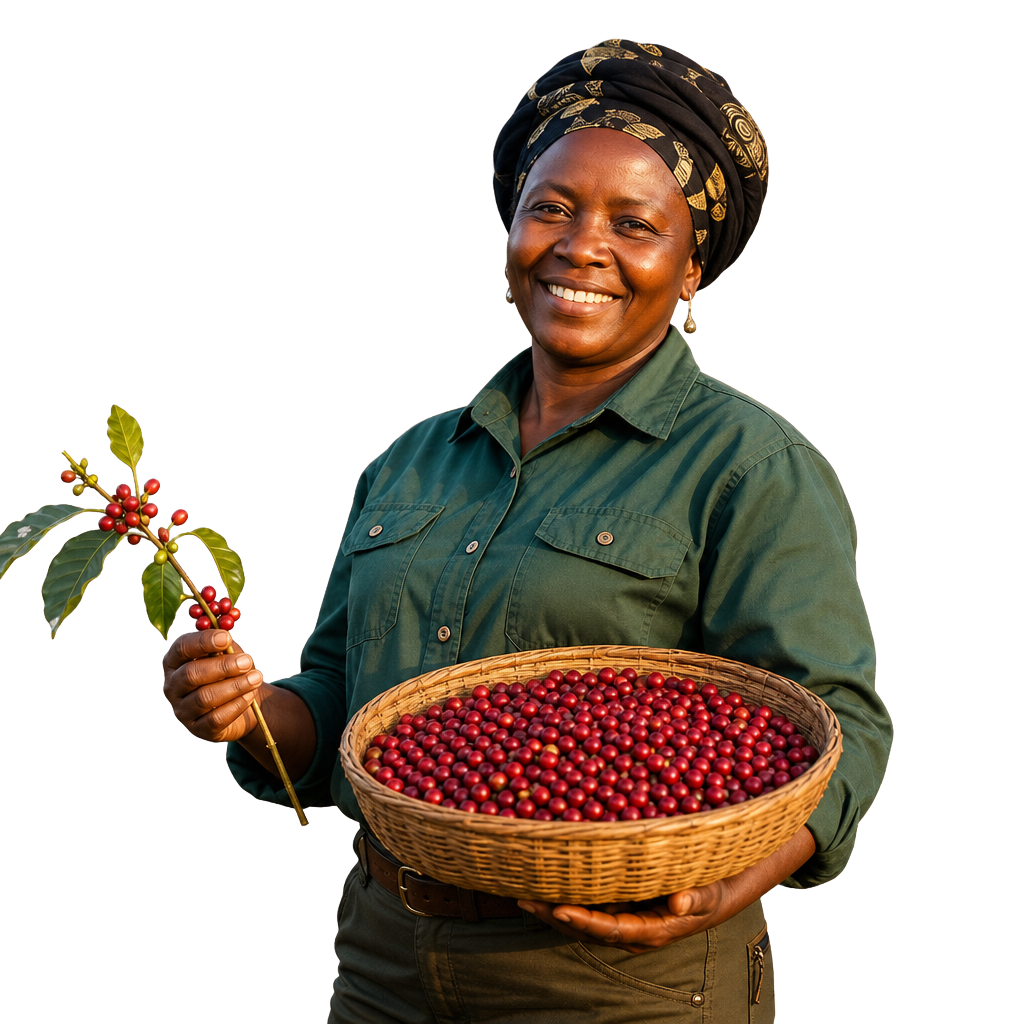
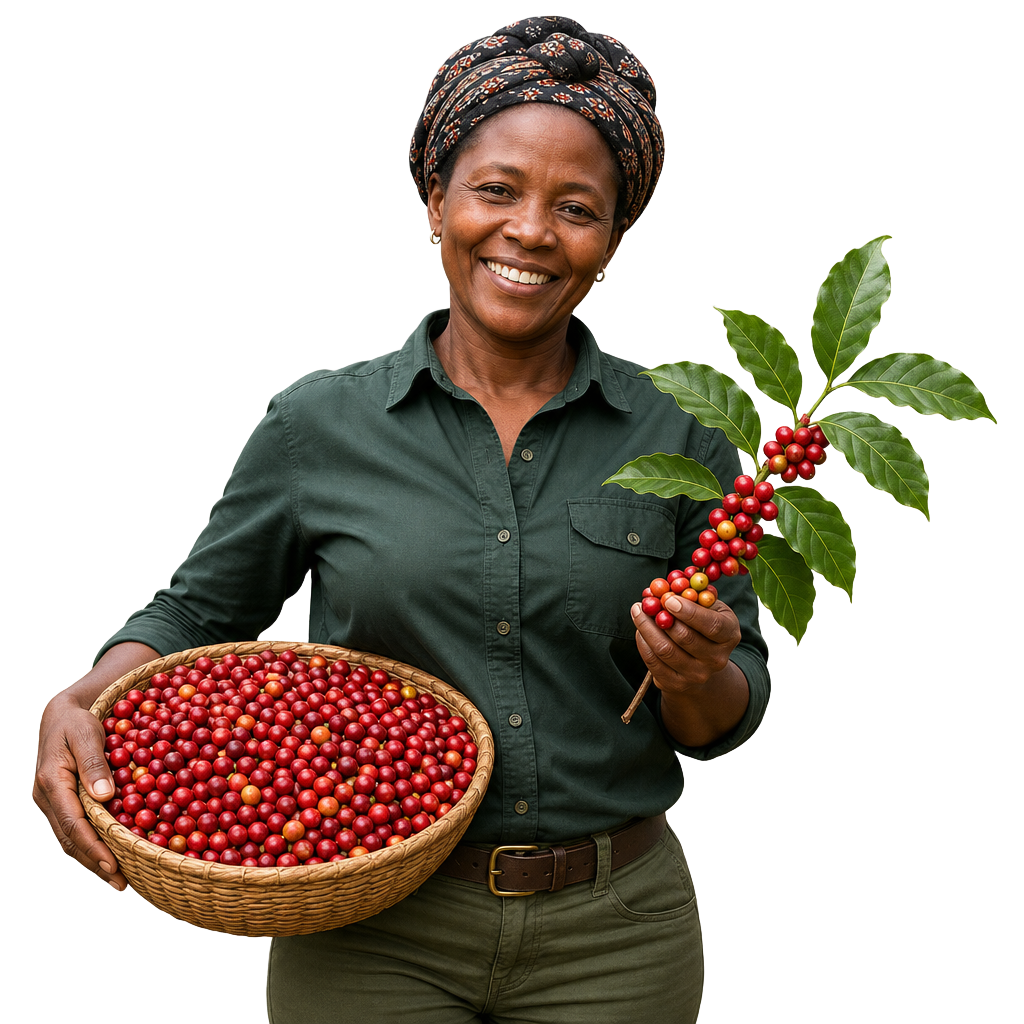
Update TokenHarvest hero imagery and styles
Replit-Commit-Author: Agent

diff --git a/artifacts/tokenharvest-website/src/components/home/TokenHarvestHero.css b/artifacts/tokenharvest-website/src/components/home/TokenHarvestHero.css
@@ -298,8 +298,9 @@
 }
 
 .th-commodity-item[data-name="green-beans"] { top: 8%; left: 0; animation-delay: -2s; }
-.th-commodity-item[data-name="red-cherries"] { top: 24%; right: -1%; width: clamp(78px, 12vw, 132px); animation-delay: -4.5s; }
-.th-commodity-item[data-name="tea-farmer"] { top: 0; right: 13%; width: clamp(110px, 15vw, 170px); animation-delay: -4s; }
+.th-commodity-item[data-name="red-cherries"] { top: 26%; right: 1%; width: clamp(78px, 12vw, 132px); animation-delay: -4.5s; }
+.th-commodity-item[data-name="tea-leaves"] { top: 4%; right: -3%; width: clamp(80px, 12vw, 125px); animation-delay: -3s; }
+.th-commodity-item[data-name="tea-farmer"] { top: 0; right: 18%; width: clamp(105px, 14vw, 150px); animation-delay: -4s; }
 .th-commodity-item[data-name="grain"] { bottom: 5%; left: -1%; width: clamp(95px, 15vw, 160px); animation-delay: -1s; }
 .th-commodity-item[data-name="nuts"] { right: 6%; bottom: 3%; animation-delay: -3s; }
 .th-commodity-item[data-name="cacao"] { top: 42%; right: -2%; width: clamp(70px, 11vw, 118px); animation-delay: -5s; }
@@ -454,7 +455,8 @@
   .th-commodity-tag.origin { left: 0; }
   .th-commodity-tag.finance { right: 0; }
   .th-commodity-item[data-name="red-cherries"] { top: 27%; right: -4%; }
-  .th-commodity-item[data-name="tea-farmer"] { right: 10%; }
+  .th-commodity-item[data-name="tea-leaves"] { right: -4%; }
+  .th-commodity-item[data-name="tea-farmer"] { right: 22%; }
   .th-commodity-item[data-name="cacao"] { right: -3%; }
   .th-commodity-item[data-name="grain"] { left: -2%; }
   .th-commodity-corner-card,

diff --git a/artifacts/tokenharvest-website/src/components/home/TokenHarvestHero.tsx b/artifacts/tokenharvest-website/src/components/home/TokenHarvestHero.tsx
@@ -22,6 +22,7 @@ const withoutDashes = (value: string) => value.replace(/[—–]/g, "").replace(
 const commodities = [
   { name: "green-beans", src: heroAsset("tokenharvest-green-beans.png"), alt: "Raw unroasted green coffee beans" },
   { name: "red-cherries", src: heroAsset("tokenharvest-red-cherries.png"), alt: "Ripe red coffee cherries on a branch" },
+  { name: "tea-leaves", src: heroAsset("tokenharvest-tea.png"), alt: "Fresh tea leaves and a bud" },
   { name: "tea-farmer", src: heroAsset("tokenharvest-tea-farmer.png"), alt: "East African tea farmer holding a basket of freshly harvested tea leaves" },
   { name: "grain", src: heroAsset("tokenharvest-grain.png"), alt: "Golden grain stalks" },
   { name: "nuts", src: heroAsset("tokenharvest-nuts.png"), alt: "Macadamia nuts" },
